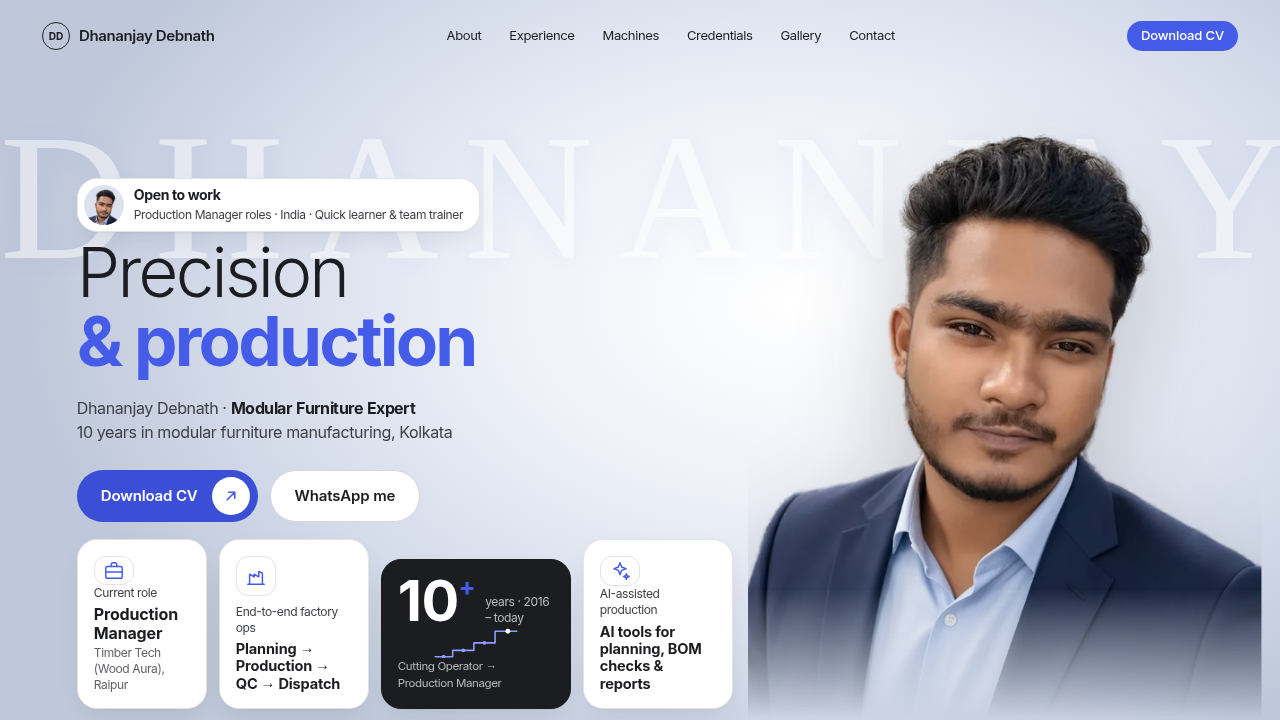
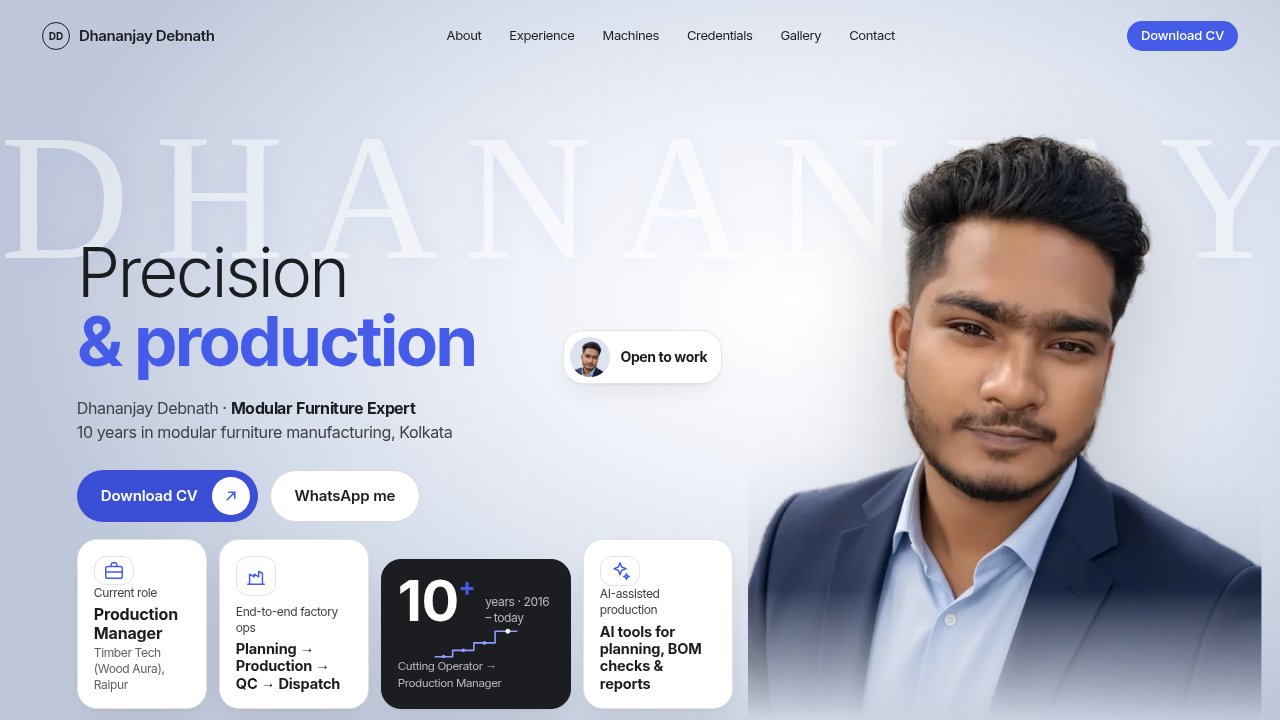
Hero: Open to work pill placed in free gap

Changed region(s): [[0.0625, 0.2444, 0.375, 0.3361], [0.4375, 0.4583, 0.5625, 0.5194]]

diff --git a/index.html b/index.html
@@ -300,7 +300,7 @@ section.alt .card,section.alt .job .box,section.alt .mc,#credentials .card{backg
 .cgs li{padding-top:calc((3 - var(--n))*48px)}.cgb{background:#26272B;border:1px solid #34353A;border-top:3px solid var(--bl);border-radius:16px;padding:16px;min-height:calc(150px + var(--n)*48px);display:flex;flex-direction:column;gap:4px;position:relative}
 .cgs li:last-child .cgb{background:#3A4FD6;border-color:#3A4FD6}.cgs li:last-child .cgy,.cgs li:last-child .cgc{color:#fff}
 .cgy{font-size:12px;font-weight:600;color:#8E9DFF}.cgb b{font-size:16px;line-height:1.25}.cgc{font-size:13px;color:#B9BABD;line-height:1.35}.cgb i{font-style:normal;margin-top:auto;font-size:28px;font-weight:700;letter-spacing:-.03em}
-@media(max-width:760px){.cgs{grid-template-columns:1fr;gap:10px}.cgs li{padding:0 0 0 calc(var(--n)*14px)}.cgb{min-height:0;flex-direction:row;flex-wrap:wrap;align-items:baseline;gap:2px 10px}.cgb b{flex:1 1 100%}.cgb i{margin:0 0 0 auto;font-size:20px}.cgy{flex:1 1 100%}.cg{border-radius:50% 50% 0 0/30px 30px 0 0}.cgs{display:flex;flex-direction:column-reverse}}.hc{grid-template-columns:150px 170px 230px 170px!important}.c4{height:170px;display:flex;flex-direction:column;justify-content:flex-end}.c4 b{font-size:14.5px}@media(max-width:1250px){.hc{grid-template-columns:140px 150px 210px 150px!important}.hp{right:20%}}@media(max-width:900px){.hc{grid-template-columns:1fr 1fr!important}.c4{order:3;height:auto;grid-column:1/-1;flex-direction:row;align-items:center;gap:12px;flex-wrap:wrap}.c4 .lic{margin:0}.c4 small{flex:1 1 60%}.c4 b{flex:1 1 100%}.c3{order:4}}@media(max-width:900px){.hp{right:auto!important;left:auto!important;margin-left:auto!important;margin-right:auto!important;width:min(78vw,400px)!important}.bgt{left:0!important;right:auto!important;width:max-content;top:var(--bt,52%)!important;bottom:auto!important;z-index:0!important;font-size:19vw!important;letter-spacing:.06em!important;opacity:.55;animation:bgt .6s ease calc(var(--d) + .3s) forwards,mq 11s ease-in-out calc(var(--d) + .3s) infinite alternate!important}.hp{z-index:1!important}@keyframes mq{from{transform:translateX(12px)}to{transform:translateX(calc(100vw - 100% - 12px))}}.hp{margin-top:0!important}.hp img{-webkit-mask-image:linear-gradient(#000 80%,transparent),linear-gradient(90deg,transparent,#000 10%,#000 90%,transparent);mask-image:linear-gradient(#000 80%,transparent),linear-gradient(90deg,transparent,#000 10%,#000 90%,transparent);-webkit-mask-composite:source-in;mask-composite:intersect}}@media(max-width:900px) and (prefers-reduced-motion:reduce){.bgt{animation:none!important;opacity:.55;font-size:12.5vw!important;left:0!important;right:0!important;width:auto;text-align:center}}.ab .abl{font-size:clamp(20px,2.2vw,26px);font-weight:600;line-height:1.3;color:#1C1D20;letter-spacing:-.01em}.ab .abs{margin:10px 0 22px;color:#5b5e66;font-size:15.5px;line-height:1.55}.abp{list-style:none;padding:0;margin:0;display:grid;gap:10px}.abp li{background:#fff;border:1px solid #E6E7EB;border-left:3px solid #455CE9;border-radius:12px;padding:13px 16px;box-shadow:0 4px 14px rgba(28,29,32,.05)}.abp b{display:block;font-size:15px;color:#1C1D20}.abp span{display:block;font-size:14px;color:#5b5e66;line-height:1.5;margin-top:2px}.about .kv{align-self:start;display:block;padding:6px 22px}.about .kv>div{display:flex;justify-content:space-between;gap:12px;padding:14px 0;border-bottom:1px solid #EDEEF1;height:auto;min-height:0}.about .kv>div:last-child{border-bottom:0}.about .kv span{color:#6b6e76;font-size:13.5px}.about .kv b{text-align:right;font-size:14.5px}.sg .chips li:after,.sg .wf li:after{content:none!important}@media(max-width:900px){.hc{margin-top:12px!important}}@media(min-width:901px){.hp{right:1.5vw!important;left:auto!important}.hc{right:auto!important;left:max(6vw,24px)!important;bottom:5%!important;grid-template-columns:130px 150px 190px 150px!important;gap:12px!important}.hav{right:auto!important;left:max(6vw,24px)!important;top:calc(34% - 74px)!important}}@media(min-width:901px){.hlt{top:39%!important}.hav{top:calc(39% - 66px)!important}.hc{bottom:3.5%!important}}@media(min-width:901px) and (max-height:860px){.hlt{top:33%!important}.hav{top:calc(33% - 60px)!important}.hc{bottom:1.5%!important}.hlt h1{margin-bottom:0}}</style>
+@media(max-width:760px){.cgs{grid-template-columns:1fr;gap:10px}.cgs li{padding:0 0 0 calc(var(--n)*14px)}.cgb{min-height:0;flex-direction:row;flex-wrap:wrap;align-items:baseline;gap:2px 10px}.cgb b{flex:1 1 100%}.cgb i{margin:0 0 0 auto;font-size:20px}.cgy{flex:1 1 100%}.cg{border-radius:50% 50% 0 0/30px 30px 0 0}.cgs{display:flex;flex-direction:column-reverse}}.hc{grid-template-columns:150px 170px 230px 170px!important}.c4{height:170px;display:flex;flex-direction:column;justify-content:flex-end}.c4 b{font-size:14.5px}@media(max-width:1250px){.hc{grid-template-columns:140px 150px 210px 150px!important}.hp{right:20%}}@media(max-width:900px){.hc{grid-template-columns:1fr 1fr!important}.c4{order:3;height:auto;grid-column:1/-1;flex-direction:row;align-items:center;gap:12px;flex-wrap:wrap}.c4 .lic{margin:0}.c4 small{flex:1 1 60%}.c4 b{flex:1 1 100%}.c3{order:4}}@media(max-width:900px){.hp{right:auto!important;left:auto!important;margin-left:auto!important;margin-right:auto!important;width:min(78vw,400px)!important}.bgt{left:0!important;right:auto!important;width:max-content;top:var(--bt,52%)!important;bottom:auto!important;z-index:0!important;font-size:19vw!important;letter-spacing:.06em!important;opacity:.55;animation:bgt .6s ease calc(var(--d) + .3s) forwards,mq 11s ease-in-out calc(var(--d) + .3s) infinite alternate!important}.hp{z-index:1!important}@keyframes mq{from{transform:translateX(12px)}to{transform:translateX(calc(100vw - 100% - 12px))}}.hp{margin-top:0!important}.hp img{-webkit-mask-image:linear-gradient(#000 80%,transparent),linear-gradient(90deg,transparent,#000 10%,#000 90%,transparent);mask-image:linear-gradient(#000 80%,transparent),linear-gradient(90deg,transparent,#000 10%,#000 90%,transparent);-webkit-mask-composite:source-in;mask-composite:intersect}}@media(max-width:900px) and (prefers-reduced-motion:reduce){.bgt{animation:none!important;opacity:.55;font-size:12.5vw!important;left:0!important;right:0!important;width:auto;text-align:center}}.ab .abl{font-size:clamp(20px,2.2vw,26px);font-weight:600;line-height:1.3;color:#1C1D20;letter-spacing:-.01em}.ab .abs{margin:10px 0 22px;color:#5b5e66;font-size:15.5px;line-height:1.55}.abp{list-style:none;padding:0;margin:0;display:grid;gap:10px}.abp li{background:#fff;border:1px solid #E6E7EB;border-left:3px solid #455CE9;border-radius:12px;padding:13px 16px;box-shadow:0 4px 14px rgba(28,29,32,.05)}.abp b{display:block;font-size:15px;color:#1C1D20}.abp span{display:block;font-size:14px;color:#5b5e66;line-height:1.5;margin-top:2px}.about .kv{align-self:start;display:block;padding:6px 22px}.about .kv>div{display:flex;justify-content:space-between;gap:12px;padding:14px 0;border-bottom:1px solid #EDEEF1;height:auto;min-height:0}.about .kv>div:last-child{border-bottom:0}.about .kv span{color:#6b6e76;font-size:13.5px}.about .kv b{text-align:right;font-size:14.5px}.sg .chips li:after,.sg .wf li:after{content:none!important}@media(max-width:900px){.hc{margin-top:12px!important}}@media(min-width:901px){.hp{right:1.5vw!important;left:auto!important}.hc{right:auto!important;left:max(6vw,24px)!important;bottom:5%!important;grid-template-columns:130px 150px 190px 150px!important;gap:12px!important}.hav{right:auto!important;left:max(6vw,24px)!important;top:calc(34% - 74px)!important}}@media(min-width:901px){.hlt{top:39%!important}.hav{top:calc(39% - 66px)!important}.hc{bottom:3.5%!important}}@media(min-width:901px) and (max-height:860px){.hlt{top:33%!important}.hav{top:calc(33% - 60px)!important}.hc{bottom:1.5%!important}.hlt h1{margin-bottom:0}}.hav.cmp small{display:none}.hav.cmp{padding-right:14px}</style>
 <script type="application/ld+json">
 {"@context":"https://schema.org","@type":"Person","name":"Dhananjay Debnath","alternateName":"Sanu Debnath","jobTitle":"Production Manager","description":"Production Manager with 10 years of hands-on experience in modular furniture manufacturing.","url":"https://debnathofficial.pages.dev/","image":"https://debnathofficial.pages.dev/assets/img/dd-800.webp","email":"mailto:debnathofficial07@gmail.com","telephone":"+91-7797691585","address":{"@type":"PostalAddress","addressLocality":"Kolkata","addressRegion":"West Bengal","addressCountry":"IN"},"worksFor":{"@type":"Organization","name":"Timber Tech (Wood Aura)"},"knowsLanguage":["Bengali","Hindi","English"],"knowsAbout":["Modular furniture manufacturing","Biesse CNC boring","Beam saw","Panel saw","Edge banding","Spazio 3D","Naadi 3D design","AutoCAD 2D","Production Planning & Control","Bill of Materials","Cut list optimization","Quality control"],"hasCredential":[{"@type":"EducationalOccupationalCredential","name":"Biesse CNC Operation & Preventive Maintenance"},{"@type":"EducationalOccupationalCredential","name":"Spazio 3D Cabinet Design & Optimization"},{"@type":"EducationalOccupationalCredential","name":"Naadi 3D design software training (2026)"}]}
 </script>
@@ -440,5 +440,5 @@ section.alt .card,section.alt .job .box,section.alt .mc,#credentials .card{backg
 </div></div></section>
 </main>
 <footer><div class="wrap"><span>© <span id="yr">2026</span> Dhananjay (Sanu) Debnath</span><span><a href="resume.html">Resume</a> · Production Manager | Modular Furniture Manufacturing</span><span class="fc">Machine photos: manufacturers &amp; Wikimedia Commons – <a href="CREDITS.md">credits</a></span></div></footer>
-<script src="assets/main.js?v=12" defer></script>
+<script src="assets/main.js?v=13" defer></script>
 </body></html>

diff --git a/assets/main.js b/assets/main.js
@@ -31,3 +31,12 @@ document.getElementById('yr').textContent=new Date().getFullYear();
 })();
 
 (function(){var b=document.querySelector('.bgt'),h=document.getElementById('hp');if(!b||!h)return;function f(){if(innerWidth>900){b.style.removeProperty('--bt');return}b.style.setProperty('--bt',Math.round(h.offsetTop+h.offsetHeight*.45-b.offsetHeight/2)+'px')}f();addEventListener('resize',f,{passive:true});addEventListener('load',f)})();
+
+(function(){var a=document.querySelector('.hav'),x=document.querySelector('.hx'),l=document.querySelector('.hlt'),im=document.querySelector('.hp img'),bg=document.querySelector('.bgt');if(!a||!x||!l||!im)return;
+function tw(e){var r=document.createRange();r.selectNodeContents(e);return r.getBoundingClientRect()}
+function f(){if(innerWidth<=900)return;a.classList.remove('cmp');a.style.cssText='';var X=x.getBoundingClientRect(),R=0;[].forEach.call(l.children,function(c){if(c.classList.contains('sr'))return;R=Math.max(R,tw(c).right)});var L=l.getBoundingClientRect(),hpE=document.getElementById('hp'),P=X.left+hpE.offsetLeft+hpE.offsetWidth*.12,B=bg?tw(bg).bottom:0,gap=P-R;
+var w=a.offsetWidth;if(gap<w+48){a.classList.add('cmp');w=a.offsetWidth}
+var h=a.offsetHeight,top;
+if(gap>=w+48){var left=R+(gap-w)/2;top=Math.max(B+16,L.top+L.height*.42-h/2)}else{a.style.display='none';return}
+a.style.setProperty('left',(left-X.left)+'px','important');a.style.setProperty('top',(top-X.top)+'px','important');a.style.setProperty('right','auto','important')}
+addEventListener('load',function(){f();setTimeout(f,400)});addEventListener('resize',f,{passive:true});document.fonts&&document.fonts.ready.then(f)})();
